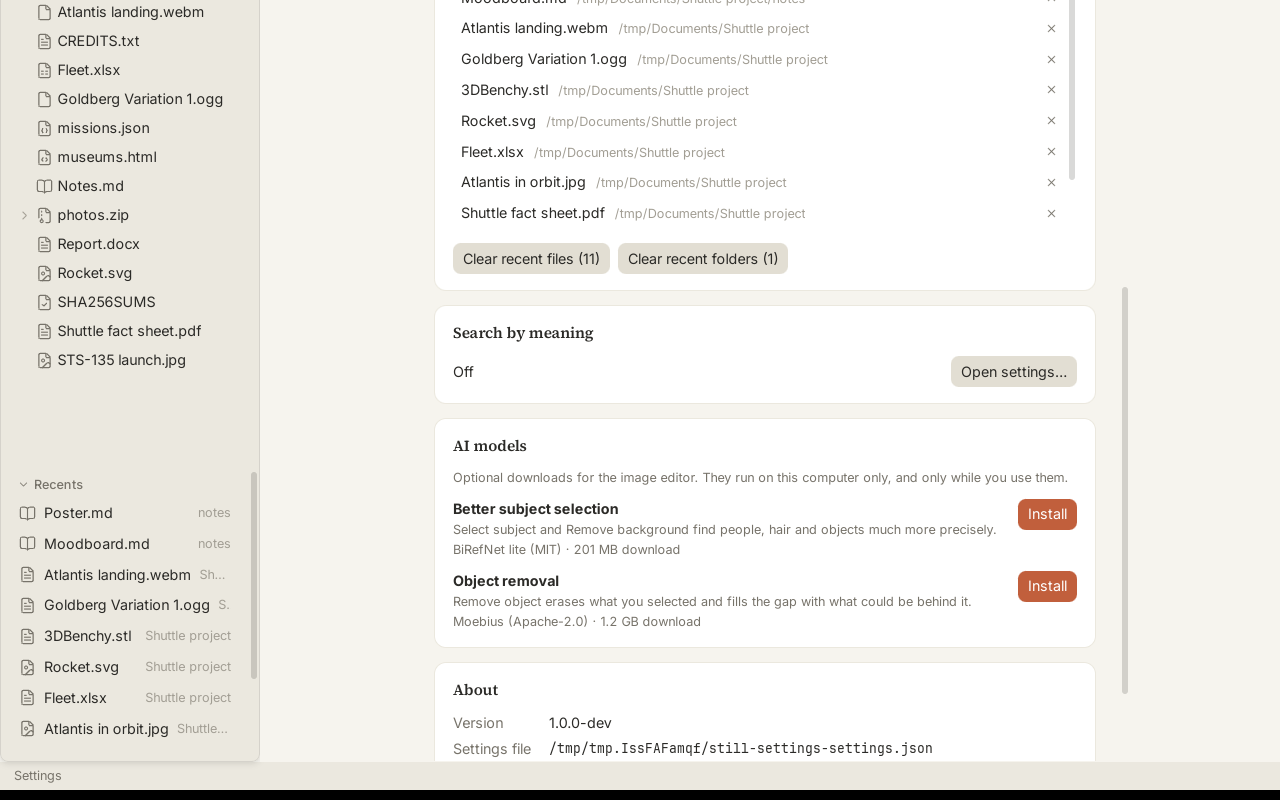
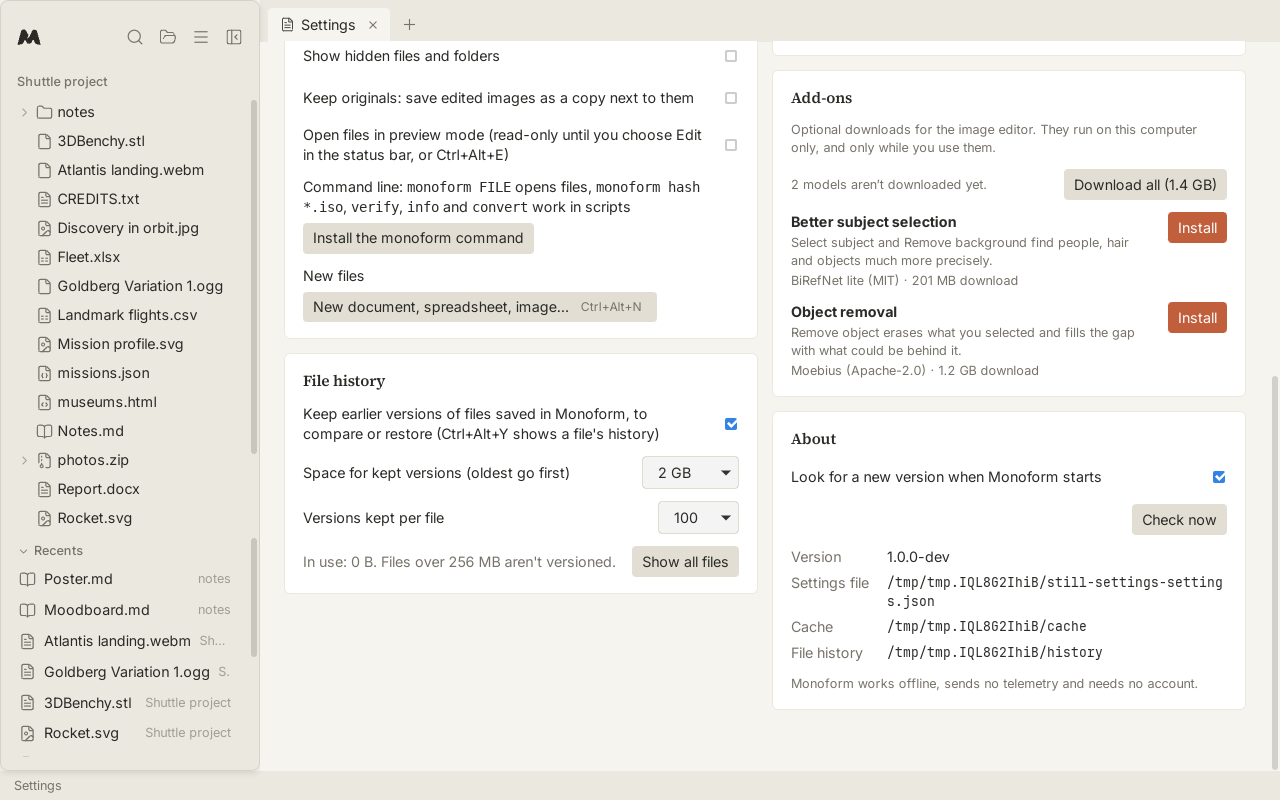
Settings › Add-ons: the optional models are add-ons; welcome text without the AI line
The Settings page, the image editor's tools that use the optional models
(now "(add-on)", with a puzzle-piece mark instead of an AI badge), the
download questions and the hints say add-on in all five languages. The
welcome screen no longer says the app was built with AI. Docs and the
Settings screenshot follow.

diff --git a/frontend/src/modules/image/ImageModule.svelte b/frontend/src/modules/image/ImageModule.svelte
@@ -43,6 +43,7 @@
   import Blend from '@lucide/svelte/icons/blend';
   import UserRoundSearch from '@lucide/svelte/icons/user-round-search';
   import Download from '@lucide/svelte/icons/download';
+  import Puzzle from '@lucide/svelte/icons/puzzle';
   import { flashAt, openSettingsAt } from '../../core/settingsLink';
   import Copy from '@lucide/svelte/icons/copy';
   import Scissors from '@lucide/svelte/icons/scissors';
@@ -1333,7 +1334,7 @@
       { label: t('Remove a watermark…'), run: () => void openCleanup() },
       { label: t('Remove background'), run: () => void removeBackground() },
       { label: t('Remove a plain background (one colour)'), run: () => void removeBackground('plain') },
-      { label: t('Remove background with AI'), run: () => void removeBackground('ai') },
+      { label: t('Remove background (add-on)'), run: () => void removeBackground('ai') },
       { label: t('Select subject'), run: () => void selectSubject(!!aiModels.pack('subject')?.installed) },
       { label: t('Remove object (fill the gap)'), disabled: !es?.pixelSelection, run: () => void removeObject() },
       { separator: true },
@@ -1420,7 +1421,7 @@
       { id: 'select', icon: SquareDashed, label: t('Rectangle select'), help: t('Drag to select a rectangle. Hold Ctrl for a square, Shift to add, Alt to subtract. Drag inside a selection to move it; its handles resize and turn it.'), key: 'M' },
       { id: 'ellipse', icon: CircleDashed, label: t('Ellipse select'), help: t('Drag to select an ellipse. Hold Ctrl for a circle, Shift to add, Alt to subtract. Drag inside a selection to move it; its handles resize and turn it.') },
       { id: 'lasso', icon: Lasso, label: t('Lasso select'), help: t('Drag around an area to select it freehand. Shift adds, Alt subtracts. Drag inside a selection to move it; its handles resize and turn it.'), key: 'L' },
-      { id: 'selbrush', icon: Highlighter, label: t('Selection brush'), help: t('Paint over what to select — e.g. a watermark on a photo, then Remove object (AI) fills it in. Each stroke adds; Alt-drag takes away. Set the size in the toolbar.') },
+      { id: 'selbrush', icon: Highlighter, label: t('Selection brush'), help: t('Paint over what to select — e.g. a watermark on a photo, then Remove object (add-on) fills it in. Each stroke adds; Alt-drag takes away. Set the size in the toolbar.') },
       { id: 'wand', icon: Wand, label: t('Magic wand'), help: t('Click to select pixels of a similar colour. Set Tolerance in the toolbar; Shift adds, Alt subtracts.'), key: 'W' },
       { id: 'object', icon: ScanEye, label: t('Select object'), help: t('Click an object to select it, with edges snapped to the pixels. Shift-click adds, Alt-click excludes a part.'), key: 'O' },
     ],
@@ -1448,7 +1449,7 @@
       { id: 'pixelate', icon: Grid, label: t('Pixelate region'), help: t('Drag over an area, adjust it, then press Enter to pixelate it.'), key: 'P' },
     ],
   ];
-  // Tools that use the optional AI models (Settings › AI models), below Select
+  // Tools that use the optional models (Settings › Add-ons), below Select
   // object. Until their model is downloaded they show greyed out and lead to
   // the download in Settings.
   type AITool = { pack: string; icon: any; label: string; help: string; run: () => void };
@@ -1456,14 +1457,14 @@
     {
       pack: 'subject',
       icon: UserRoundSearch,
-      label: t('Select subject (AI)'),
+      label: t('Select subject (add-on)'),
       help: t('Selects the main subject — people, hair, objects — precisely, with the downloaded model. Shift adds, Alt subtracts.'),
       run: () => void selectSubjectAI(),
     },
     {
       pack: 'eraser',
       icon: Eraser2,
-      label: t('Remove object (AI)'),
+      label: t('Remove object (add-on)'),
       help: t('Removes the selected object and fills the gap with what could be behind it. Select it first, e.g. by clicking it with Select object.'),
       run: () => void removeObjectAI(),
     },
@@ -1473,7 +1474,7 @@
     if (aiReady(a.pack)) return `${a.label} — ${a.help}`;
     const p = aiModels.pack(a.pack);
     if (p && !p.supported) return `${a.label} — ${t('Not available on this system')}`;
-    return `${a.label} — ${t('Needs an optional download: click to get it in Settings › AI models.')}`;
+    return `${a.label} — ${t('Needs an optional download: click to get it in Settings › Add-ons.')}`;
   }
   function aiToolClick(a: AITool) {
     if (aiReady(a.pack)) a.run();
@@ -1486,7 +1487,7 @@
   async function removeObjectAI() {
     if (!editor?.selection) {
       setTool('object');
-      ui.toast(t('Click the object to remove (Shift-click adds a part), then press Remove object (AI) again.'), 'info', undefined, 6000);
+      ui.toast(t('Click the object to remove (Shift-click adds a part), then press Remove object (add-on) again.'), 'info', undefined, 6000);
       return;
     }
     await removeObject();
@@ -1547,7 +1548,7 @@
     {:else if tool === 'selbrush'}
       <label class="opt">{t('Size')} <input type="range" min="2" max="300" value={opts.brushSize || 24} oninput={(e) => setOpt('brushSize', +(e.target as HTMLInputElement).value)} /><span class="v">{opts.brushSize || 24}</span></label>
       <span class="hint">{t('Paint to add · Alt-drag to take away')}</span>
-      {#if es?.pixelSelection}<button class="btn ghost" title={t('Remove what is selected and fill the gap (optional AI model)')} onclick={() => void removeObject()}><Icon icon={Sparkles} size={14} /> {t('Remove object (AI)')}</button>{/if}
+      {#if es?.pixelSelection}<button class="btn ghost" title={t('Remove what is selected and fill the gap (optional add-on)')} onclick={() => void removeObject()}><Icon icon={Sparkles} size={14} /> {t('Remove object (add-on)')}</button>{/if}
       <span class="sep"></span>
     {:else if SELECT_TOOLS.includes(tool)}
       <div class="seg" role="radiogroup" aria-label={t('Selection mode')}>
@@ -1765,7 +1766,7 @@
             {#each aiTools as a (a.pack)}
               <button class="icon-btn ai" class:locked={!aiReady(a.pack)} data-pack={a.pack} title={aiToolTitle(a)} aria-label={a.label} aria-disabled={!aiReady(a.pack)} onclick={() => aiToolClick(a)}>
                 <Icon icon={a.icon} />
-                <span class="badge" aria-hidden="true">{#if aiReady(a.pack)}AI{:else}<Icon icon={Download} size={9} />{/if}</span><!-- i18n-ignore -->
+                <span class="badge" aria-hidden="true"><Icon icon={aiReady(a.pack) ? Puzzle : Download} size={9} /></span>
               </button>
             {/each}
           {/if}

diff --git a/frontend/src/test/m43.ts b/frontend/src/test/m43.ts
@@ -1,10 +1,10 @@
 // M43: optional AI models (with MF_AI_FAKE=1 the Go side swaps the models
 // for stand-ins: an ellipse for the subject, the surrounding colour for a
 // removal — the downloads and pipelines are covered by Go tests). Settings ›
-// AI models lists both packs; Install asks first (size, sources) and shows
+// Add-ons lists both packs; Install asks first (size, sources) and shows
 // progress. In the image editor the AI tools below Select object are greyed
 // out until their model is installed and lead to its row in Settings; once
-// installed, Select subject (AI) uses the model; Remove object
+// installed, Select subject (add-on) uses the model; Remove object
 // without its model offers the download ("Not now" changes nothing), and
 // with it removes the selected blue square through a background job, undoably;
 // Remove in Settings uninstalls; Download all asks once and downloads both
@@ -48,7 +48,7 @@ export default async function m43(dir: string) {
   const aiTool = (id: string) => document.querySelector<HTMLButtonElement>(`.tabview[data-tab-id="${t.id}"] .tools .ai[data-pack="${id}"]`);
   await waitFor(() => aiTool('subject') && aiTool('eraser'), 'AI tools below Select object');
   const order = [...document.querySelectorAll(`.tabview[data-tab-id="${t.id}"] .tools button`)].map((b) => b.getAttribute('aria-label'));
-  assertEq(order.slice(order.indexOf('Select object'), order.indexOf('Select object') + 3).join(' | '), 'Select object | Select subject (AI) | Remove object (AI)', 'right below Select object');
+  assertEq(order.slice(order.indexOf('Select object'), order.indexOf('Select object') + 3).join(' | '), 'Select object | Select subject (add-on) | Remove object (add-on)', 'right below Select object');
   assert(aiTool('subject')!.classList.contains('locked') && aiTool('eraser')!.classList.contains('locked'), 'greyed out while not downloaded');
   assert(aiTool('subject')!.title.includes('Settings'), `says where to get it (${aiTool('subject')!.title})`);
   aiTool('subject')!.click();
@@ -66,7 +66,7 @@ export default async function m43(dir: string) {
   d.resolve({ button: 'ok' });
   await waitFor(() => (row('subject')?.textContent?.includes('Installed') ? true : null), 'subject installed', 10000);
 
-  // Back in the image: Select subject (AI) is live and uses it (the stand-in finds a centred ellipse, not the red circle).
+  // Back in the image: Select subject (add-on) is live and uses it (the stand-in finds a centred ellipse, not the red circle).
   workspace.activate(t);
   await waitFor(() => (aiTool('subject')?.classList.contains('locked') === false ? true : null), 'the AI tool is live once installed');
   assert(aiTool('eraser')!.classList.contains('locked'), 'the other one still needs its download');
@@ -127,7 +127,7 @@ export default async function m43(dir: string) {
   assert(all.textContent!.includes('2 models'), `says how many (${all.textContent})`);
   all.querySelector('button')!.click();
   const da = await waitFor(() => ui.dialog, 'one question for both');
-  assertEq(da.title, 'Download all AI models?', da.title);
+  assertEq(da.title, 'Download all add-ons?', da.title);
   assert(da.details!.length === 3 && da.message!.includes('huggingface.co'), `names both models and the source (${da.details})`);
   da.resolve({ button: 'ok' });
   await waitFor(() => (aiModels.busy('subject') && aiModels.busy('eraser') ? true : null), 'both downloading at once', 5000);

diff --git a/frontend/src/core/aimodels.svelte.ts b/frontend/src/core/aimodels.svelte.ts
@@ -62,7 +62,7 @@ class AIModels {
     }
     const r = await ui.ask({
       title: t('Download {name}?', { name: p.name }),
-      message: `${why ? why + ' ' : ''}${p.purpose} ${t("It's a one-time download of {size} ({disk} on disk) from huggingface.co and nuget.org; after that everything runs on this computer, offline. You can remove it in Settings › AI models.", { size: formatBytes(p.download), disk: formatBytes(p.disk) })}`,
+      message: `${why ? why + ' ' : ''}${p.purpose} ${t("It's a one-time download of {size} ({disk} on disk) from huggingface.co and nuget.org; after that everything runs on this computer, offline. You can remove it in Settings › Add-ons.", { size: formatBytes(p.download), disk: formatBytes(p.disk) })}`,
       details: [t('Model: {model} ({license}) — {source}', { model: p.model, license: p.license, source: p.source.split('@')[0] }), t('Runs with ONNX Runtime (MIT, Microsoft)')],
       buttons: [
         { id: 'cancel', label: t('Not now') },
@@ -80,8 +80,8 @@ class AIModels {
     if (!todo.length) return true;
     const size = formatBytes(this.downloadSize(todo));
     const r = await ui.ask({
-      title: t('Download all AI models?'),
-      message: `${todo.map((p) => p.purpose).join(' ')} ${t("It's a one-time download of {size} from huggingface.co and nuget.org; after that everything runs on this computer, offline. You can remove them in Settings › AI models.", { size })}`,
+      title: t('Download all add-ons?'),
+      message: `${todo.map((p) => p.purpose).join(' ')} ${t("It's a one-time download of {size} from huggingface.co and nuget.org; after that everything runs on this computer, offline. You can remove them in Settings › Add-ons.", { size })}`,
       details: [...todo.map((p) => t('Model: {model} ({license}) — {source}', { model: p.model, license: p.license, source: p.source.split('@')[0] })), t('Runs with ONNX Runtime (MIT, Microsoft)')],
       buttons: [
         { id: 'cancel', label: t('Not now') },

diff --git a/frontend/src/test/demo.ts b/frontend/src/test/demo.ts
@@ -561,7 +561,7 @@ const STILLS: Record<string, (dir: string) => Promise<void>> = {
   markdown: open('Notes.md'),
   settings: async () => {
     workspace.openTool('settings');
-    const h = await waitFor(() => [...document.querySelectorAll('h2, h3')].find((e) => e.textContent?.includes('AI models')), 'AI models section');
+    const h = await waitFor(() => [...document.querySelectorAll('h2, h3')].find((e) => e.textContent?.includes('Add-ons')), 'Add-ons section');
     h.scrollIntoView({ block: 'start' });
   },
 };

diff --git a/frontend/src/shell/FirstRun.svelte b/frontend/src/shell/FirstRun.svelte
@@ -41,7 +41,7 @@
     },
     {
       title: t('Free, open and offline'),
-      text: t('Open source and free, built with AI. No account, no cloud, no tracking: your files stay on this computer, and the app works without the internet.'),
+      text: t('Open source and free. No account, no cloud, no tracking: your files stay on this computer, and the app works without the internet.'),
       icons: [ShieldCheck, WifiOff, HardDrive],
     },
   ];

diff --git a/frontend/src/modules/settings/SettingsModule.svelte b/frontend/src/modules/settings/SettingsModule.svelte
@@ -206,7 +206,7 @@
   </section>
 
   <section class="card ai">
-    <h3>{t('AI models')}</h3>
+    <h3>{t('Add-ons')}</h3>
     <p class="muted small">{t('Optional downloads for the image editor. They run on this computer only, and only while you use them.')}</p>
     {#if aiModels.missing.length > 1}
       <div class="row all">

diff --git a/docs/TESTING.md b/docs/TESTING.md
@@ -62,7 +62,7 @@ needs a window manager).
 | `m39` | fixtures dir | the + button opens "New tab" next to the active tab with the start page; activating an already open file leaves it, opening a new file replaces it in place; a pointer drag of the first tab to the right end shows the dimmed tab, a mark after the last tab and the ghost, then moves it; a press and release without moving only activates; dragging a tab onto the right edge of the view splits it (dropped tab on the right); dragging out of the window shows "Release for a new window", releasing closes the tab and starts a second app window (`windowchild` reports it runs as an extra window showing just that file). `go test .` / `./internal/app`: `--new-window`/`--at=` parsing, no single-instance lock for it, the child's environment, saving settings keeps the main session, the window kept on screen |
 | `m40` | fixtures dir | image and video side by side: the image editor's copy/drag button dragged onto the video shows a chip "Drop into clip.webm" and an outline, and adds a 96×72 overlay at the drop point (the middle); Ctrl+C on the video then paste in the image editor adds the 320×180 frame as a layer; text dropped on the video (HTML drop) becomes a "Text: …" overlay; a picture given to a note is saved into `notes/assets/` and linked; text given to the image editor adds a text object; a picture given to `vector.svg` is embedded; `red.png` dropped from the OS on the image editor is claimed and becomes a layer; giving files to the SVG is refused with a toast. `vitest`: none (UI wiring; the pieces are covered above) |
 | `m42` | fixtures dir | the path bar shows the open file's folders; the last folder opens a folder browser (longest UI frame logged) with the file marked and files sorted by name; typing filters; a sibling opens from it; `..` goes up with the folder we came from marked; a subfolder opens; *Show in the file manager* asks for that folder (recorded in self-test mode); *Open as folder* makes it the sidebar folder; Escape closes; the path bar hides and comes back; the tab bar's panels button and *View › Show / hide side panels* hide the image editor's panel and bring it back; text has no panels button. `vitest`: `ancestors()` for Windows, POSIX and UNC paths. `go test ./internal/app`: Save dialogs start in the file's folder, else the last-used folder, else Documents (XDG on Linux), never the working directory; `go test ./internal/setup`: every file type has its own icon file |
-| `m43` (with `MF_AI_FAKE=1`, `MF_CACHE=<empty dir>`) | fixtures dir | stand-in models: *Settings › AI models* lists both packs with their sizes; Install shows the consent dialog naming the hosts, then the pack is installed; *Select subject* uses it (the stand-in's centred ellipse, 240×210); *Remove object* without its pack offers the download and "Not now" changes nothing; accepting downloads it and removes the selected blue square (filled with the surrounding colour, the rest untouched), undoable; removing again asks nothing (longest UI frames logged); *Remove* in Settings uninstalls; with both missing, *Download all* asks once (both models named) and both download at the same time, as do two Installs started one after the other. `vitest`: the crop around a selection, mask growing/softening. `go test ./internal/download`: plain files and zip members by Range, checksum/size/404/cancel leave nothing behind; `./internal/ai`: store install/remove bookkeeping (sparse files), two installs at once fetching the shared runtime once, the noise schedule, and — with `MF_ORT_LIB` / `MF_AI_NET=1` (CI, Linux and Windows) — the runtime downloaded from NuGet running a tiny model (errors, cancel, a non-ASCII path) |
+| `m43` (with `MF_AI_FAKE=1`, `MF_CACHE=<empty dir>`) | fixtures dir | stand-in models: *Settings › Add-ons* lists both packs with their sizes; Install shows the consent dialog naming the hosts, then the pack is installed; *Select subject* uses it (the stand-in's centred ellipse, 240×210); *Remove object* without its pack offers the download and "Not now" changes nothing; accepting downloads it and removes the selected blue square (filled with the surrounding colour, the rest untouched), undoable; removing again asks nothing (longest UI frames logged); *Remove* in Settings uninstalls; with both missing, *Download all* asks once (both models named) and both download at the same time, as do two Installs started one after the other. `vitest`: the crop around a selection, mask growing/softening. `go test ./internal/download`: plain files and zip members by Range, checksum/size/404/cancel leave nothing behind; `./internal/ai`: store install/remove bookkeeping (sparse files), two installs at once fetching the shared runtime once, the noise schedule, and — with `MF_ORT_LIB` / `MF_AI_NET=1` (CI, Linux and Windows) — the runtime downloaded from NuGet running a tiny model (errors, cancel, a non-ASCII path) |
 | `m43real` (local; `MF_CACHE` with both packs installed, `MF_TIMEOUT=300`) | fixtures dir | the real models: *Select subject* on the astronaut photo selects her face and suit but not the flag or backdrop; *Remove object* on a lasso around the model shuttle fills it like the backdrop (within 30 per channel); timings logged, result in `img/out/ai-removed.png`. Go: `MF_AI_STORE=<models dir> go test ./internal/ai -run Photo` checks the same on the raw pipelines |
 | `m49` | fixtures dir, `MF_UPDATE_FAKE=1` | updates: Help › Check for updates shows "Monoform 99.0.0 is available" with the release notes and Skip / Later / Download and install; Skip is remembered and the startup check stays quiet about that version; Download and install shows progress, asks to save an unsaved tab first (Cancel stops), and without unsaved work installs (the fake logs it); Settings › About has the startup-check switch and offers the found version. `m49real` (local only, needs a 1.0.0 build and `MF_UPDATE_API` pointing at a stand-in for GitHub) runs a real update end to end |
 | `m50` | fixtures dir | text size 20/26/11 and interface size 150 %/90 %: the code editor's measured line height matches the drawn lines and a click on line 12 puts the caret in that line; the Settings interface-size slider shows the value while dragged and applies it only on release |

diff --git a/PROGRESS.md b/PROGRESS.md
@@ -413,7 +413,7 @@
   interface size and text size are sliders (double-click resets), split view is a row of layout buttons; on/off
   options (sidebar, side panels, path bar, hidden files, word wrap, minimap, spaces and tabs, preview mode) are
   checked items with short names. The individual commands stay in the command palette with their shortcuts.
-- **M43 — Optional AI models: better subject selection, object removal.** *Settings › AI models* lists two optional
+- **M43 — Optional models (add-ons): better subject selection, object removal.** *Settings › Add-ons* lists two optional
   downloads, each with its size, model and licence: **Better subject selection** (BiRefNet; *Select subject* and
   *Remove background* find people, hair and objects far more precisely — the bundled model stays the default) and
   **Object removal** (Moebius; select something, *Remove* in the selection bar or *Image › Remove object*, and the gap
@@ -484,9 +484,9 @@
   draw.io on the board, Mermaid/Graphviz as a diagram, Markdown as a note, certificates, plain text; copied files
   open as themselves; dragging something from another tab onto an empty one works the same. It is unsaved ("Not
   saved yet") until Save, which asks where; closing asks first. Unit tests and self-test `m48`.
-- **AI tools in the image editor's tool column**: below Select object, *Select subject (AI)* and *Remove object (AI)*
+- **Add-on tools in the image editor's tool column**: below Select object, *Select subject (add-on)* and *Remove object (add-on)*
   are always there — greyed out with a download mark until their model is installed, when a click opens *Settings ›
-  AI models* at that model (highlighted); once installed they work in place (the standard Select subject uses the
+  Add-ons* at that model (highlighted); once installed they work in place (the standard Select subject uses the
   bundled model). Self-test `m43`.
 - **Updates.** At startup Monoform asks GitHub for the newest release (on by default; *Settings › About* turns it
   off; Help › Check for updates asks by hand). A new version shows a popup with what's new: *Download and install*
@@ -504,14 +504,14 @@
   **paint bucket** (G): a click fills the area of similar colour on the active layer with the current colour, only
   inside the selection when there is one, with Tolerance and Contiguous in the toolbar (the magic wand's fill, off
   the main thread). Self-test `m51`.
-- **AI models download side by side**, and *Settings › AI models* offers *Download all* (one question, the shared
+- **Add-ons download side by side**, and *Settings › Add-ons* offers *Download all* (one question, the shared
   runtime counted once) when more than one is missing; each row shows its percentage. Go test (two installs at once
   fetch the shared runtime once) and self-test `m43`.
 - **Watermark removal** in the image editor (*Image › Remove a watermark…* opens *Adjust › Clean up*): *Light
   marks* turns pale marks white — a light watermark, scanner shading — and keeps dark lines and text, also where
   they cross the mark; *A colour* (picked in the image with the eyedropper) turns one colour white, with a
   tolerance. Both preview live on the GPU, work inside a selection and undo. For a watermark over a photo, the new
-  **selection brush** paints over it, then *Remove object (AI)* fills it in (the button is on the brush's toolbar).
+  **selection brush** paints over it, then *Remove object (add-on)* fills it in (the button is on the brush's toolbar).
 - **Plain background removal without AI**: *Remove background* first checks the picture's border; when it is one
   colour (a drawing, a scan, a product on white) that colour turns transparent the way "colour to alpha" does —
   soft edges fade instead of keeping a white fringe, solid parts stay solid in their own colour. In a drawing
@@ -595,7 +595,7 @@
   checks the status bar stays inside the window at 200% with the whole fixtures folder open.
 - **Promo video** (`scripts/readme-media.sh promo` → `build/bin/monoform-promo.mp4`, not committed): about 55 s at
   1080p, recorded from the real app (the `promo` demo scene) with captions burned in — notes and a Mermaid diagram,
-  Word/CSV/PDF, SVG/3D/video, Select subject with the AI model pasted into the report, Ctrl+K and a four-way split —
+  Word/CSV/PDF, SVG/3D/video, Select subject with the add-on pasted into the report, Ctrl+K and a four-way split —
   between a title and an end card; the demo folder's Goldberg recording (CC0) underneath.
 - **Ad** (`scripts/ad`): ~50 s of motion graphics at 1080p60 — kinetic type, the file-type icons gathering into the
   app icon, shots of the real app in tilted windows (recorded clean by `readme-media.sh footage` and cut into shots at

diff --git a/README.md b/README.md
@@ -170,7 +170,7 @@ ONNX Runtime library they run on (MIT, 6–13 MB, from Microsoft's NuGet package
 styles once you allow them in its preview. Each model is downloaded once after you agree, checked against fixed
 SHA-256 sums, and runs on your computer only while you use it. Your files never leave your computer. Settings live in
 your OS config folder (`Monoform/settings.json`). The optional models and search indexes live in the OS cache folder
-and can be removed from the app (Settings › AI models, which can also download them all at once).
+and can be removed from the app (Settings › Add-ons, which can also download them all at once).
 
 ## Documentation
 
@@ -189,7 +189,7 @@ and can be removed from the app (Settings › AI models, which can also download
 <table>
 <tr><td width="25%" align="center"><a href="docs/screenshots/pdf.png"><img src="docs/screenshots/pdf.png" alt="PDF"></a><br><sub>PDF</sub></td><td width="25%" align="center"><a href="docs/screenshots/word.png"><img src="docs/screenshots/word.png" alt="Word document"></a><br><sub>Word document</sub></td><td width="25%" align="center"><a href="docs/screenshots/spreadsheet.png"><img src="docs/screenshots/spreadsheet.png" alt="Excel, formulas calculated"></a><br><sub>Excel, formulas calculated</sub></td><td width="25%" align="center"><a href="docs/screenshots/compare.png"><img src="docs/screenshots/compare.png" alt="Two versions compared"></a><br><sub>Two versions compared</sub></td></tr>
 <tr><td width="25%" align="center"><a href="docs/screenshots/svg.png"><img src="docs/screenshots/svg.png" alt="SVG editor"></a><br><sub>SVG editor</sub></td><td width="25%" align="center"><a href="docs/screenshots/model3d.png"><img src="docs/screenshots/model3d.png" alt="3D model (STL)"></a><br><sub>3D model (STL)</sub></td><td width="25%" align="center"><a href="docs/screenshots/audio.png"><img src="docs/screenshots/audio.png" alt="Audio editor"></a><br><sub>Audio editor</sub></td><td width="25%" align="center"><a href="docs/screenshots/video.png"><img src="docs/screenshots/video.png" alt="Video"></a><br><sub>Video</sub></td></tr>
-<tr><td width="25%" align="center"><a href="docs/screenshots/json.png"><img src="docs/screenshots/json.png" alt="JSON tree"></a><br><sub>JSON tree</sub></td><td width="25%" align="center"><a href="docs/screenshots/html.png"><img src="docs/screenshots/html.png" alt="Web page preview"></a><br><sub>Web page preview</sub></td><td width="25%" align="center"><a href="docs/screenshots/archive.png"><img src="docs/screenshots/archive.png" alt="Inside a ZIP"></a><br><sub>Inside a ZIP</sub></td><td width="25%" align="center"><a href="docs/screenshots/settings.png"><img src="docs/screenshots/settings.png" alt="Settings and AI models"></a><br><sub>Settings and AI models</sub></td></tr>
+<tr><td width="25%" align="center"><a href="docs/screenshots/json.png"><img src="docs/screenshots/json.png" alt="JSON tree"></a><br><sub>JSON tree</sub></td><td width="25%" align="center"><a href="docs/screenshots/html.png"><img src="docs/screenshots/html.png" alt="Web page preview"></a><br><sub>Web page preview</sub></td><td width="25%" align="center"><a href="docs/screenshots/archive.png"><img src="docs/screenshots/archive.png" alt="Inside a ZIP"></a><br><sub>Inside a ZIP</sub></td><td width="25%" align="center"><a href="docs/screenshots/settings.png"><img src="docs/screenshots/settings.png" alt="Settings and add-ons"></a><br><sub>Settings and add-ons</sub></td></tr>
 </table>
 
 <sub>Shown in the clips and screenshots: photos and footage of Space Shuttles Atlantis and Discovery by NASA (public

diff --git a/docs/DECISIONS.md b/docs/DECISIONS.md
@@ -30,13 +30,13 @@ Choices the brief didn't dictate, one line of reasoning each. Newest at the bott
 - **Side panels hide with one switch** (`panelsHidden`): panels carry `data-sidepanel` and the app hides them all with
   one CSS rule, so every editor's panel follows the same toggle without each module wiring it; asking the image editor
   for a panel (its toolbar buttons) turns them back on, so a hidden panel is never a dead button.
-- **Optional AI models run natively, not in the web view** (`internal/ai`). The better subject finder (BiRefNet) and
+- **Optional models (add-ons) run natively, not in the web view** (`internal/ai`). The better subject finder (BiRefNet) and
   object removal (Moebius) are too big for onnxruntime-web: WebAssembly's 4 GB limit and one-thread speed rule them
   out (BiRefNet needs ~2 GB working memory, Moebius 1.2 GB of weights). Go loads Microsoft's ONNX Runtime shared
   library at run time and calls its C API through **purego** — no cgo, so the app still builds and runs without it.
   Only the functions used are bound (`ort.go`: table indices from `onnxruntime_c_api.h`, which only grows at the end);
   model paths go as UTF-16 on Windows; telemetry events are switched off; a run can be stopped (`RunOptionsSetTerminate`).
-  - **Opt-in downloads** (Settings › AI models, or offered the first time a feature needs one): a dialog names the
+  - **Opt-in downloads** (Settings › Add-ons, or offered the first time a feature needs one): a dialog names the
     size and the hosts first. Files are pinned by revision, size and SHA-256 (`catalog.go`) and fetched with
     `internal/download` (shared with search by meaning). The runtime comes from the official NuGet package: only this
     platform's library is read out of it with **HTTP Range requests** (6 MB for Windows instead of the 160 MB package;
@@ -467,7 +467,7 @@ Choices the brief didn't dictate, one line of reasoning each. Newest at the bott
   classified by content (`core/pasteKind.ts`) rather than asked about.
 - **AI tools always visible** in the image editor (greyed until downloaded) rather than appearing after a download:
   people learn they exist where they'd use them, and the click leads to the one place they are installed (Settings ›
-  AI models, `core/settingsLink.ts` scrolls to and highlights the row). They are actions next to Select object, not
+  Add-ons, `core/settingsLink.ts` scrolls to and highlights the row). They are actions next to Select object, not
   new tool modes. The standard Select subject keeps the bundled model so the two can be compared.
 - **Paint bucket reuses the magic wand's flood fill** (in the vision worker, so a large picture doesn't stall the
   window) on the active layer's pixels and fills through that mask with the same blend the selection tools use, so

diff --git a/docs/DEVELOPMENT.md b/docs/DEVELOPMENT.md
@@ -134,7 +134,7 @@ These come from the original brief and are checked in review and CI:
   license, and `scripts/licenses.py` must report 0 problems.
 - **No cgo** beyond what Wails needs. Prefer pure-Go libraries.
 - **Offline and private:** no network calls, telemetry or accounts. The exceptions: the opt-in model downloads
-  (search by meaning, image AI models), after explicit consent, and the update check at startup (one request to
+  (search by meaning, image editor add-ons), after explicit consent, and the update check at startup (one request to
   GitHub's releases API, off in Settings › About; an update is downloaded only when the user chooses to).
 - **Translated:** every interface string goes through `t()`/`tn()` with Polish, Spanish, German and French catalog entries
   (docs/TRANSLATING.md); `npm test` checks it.
